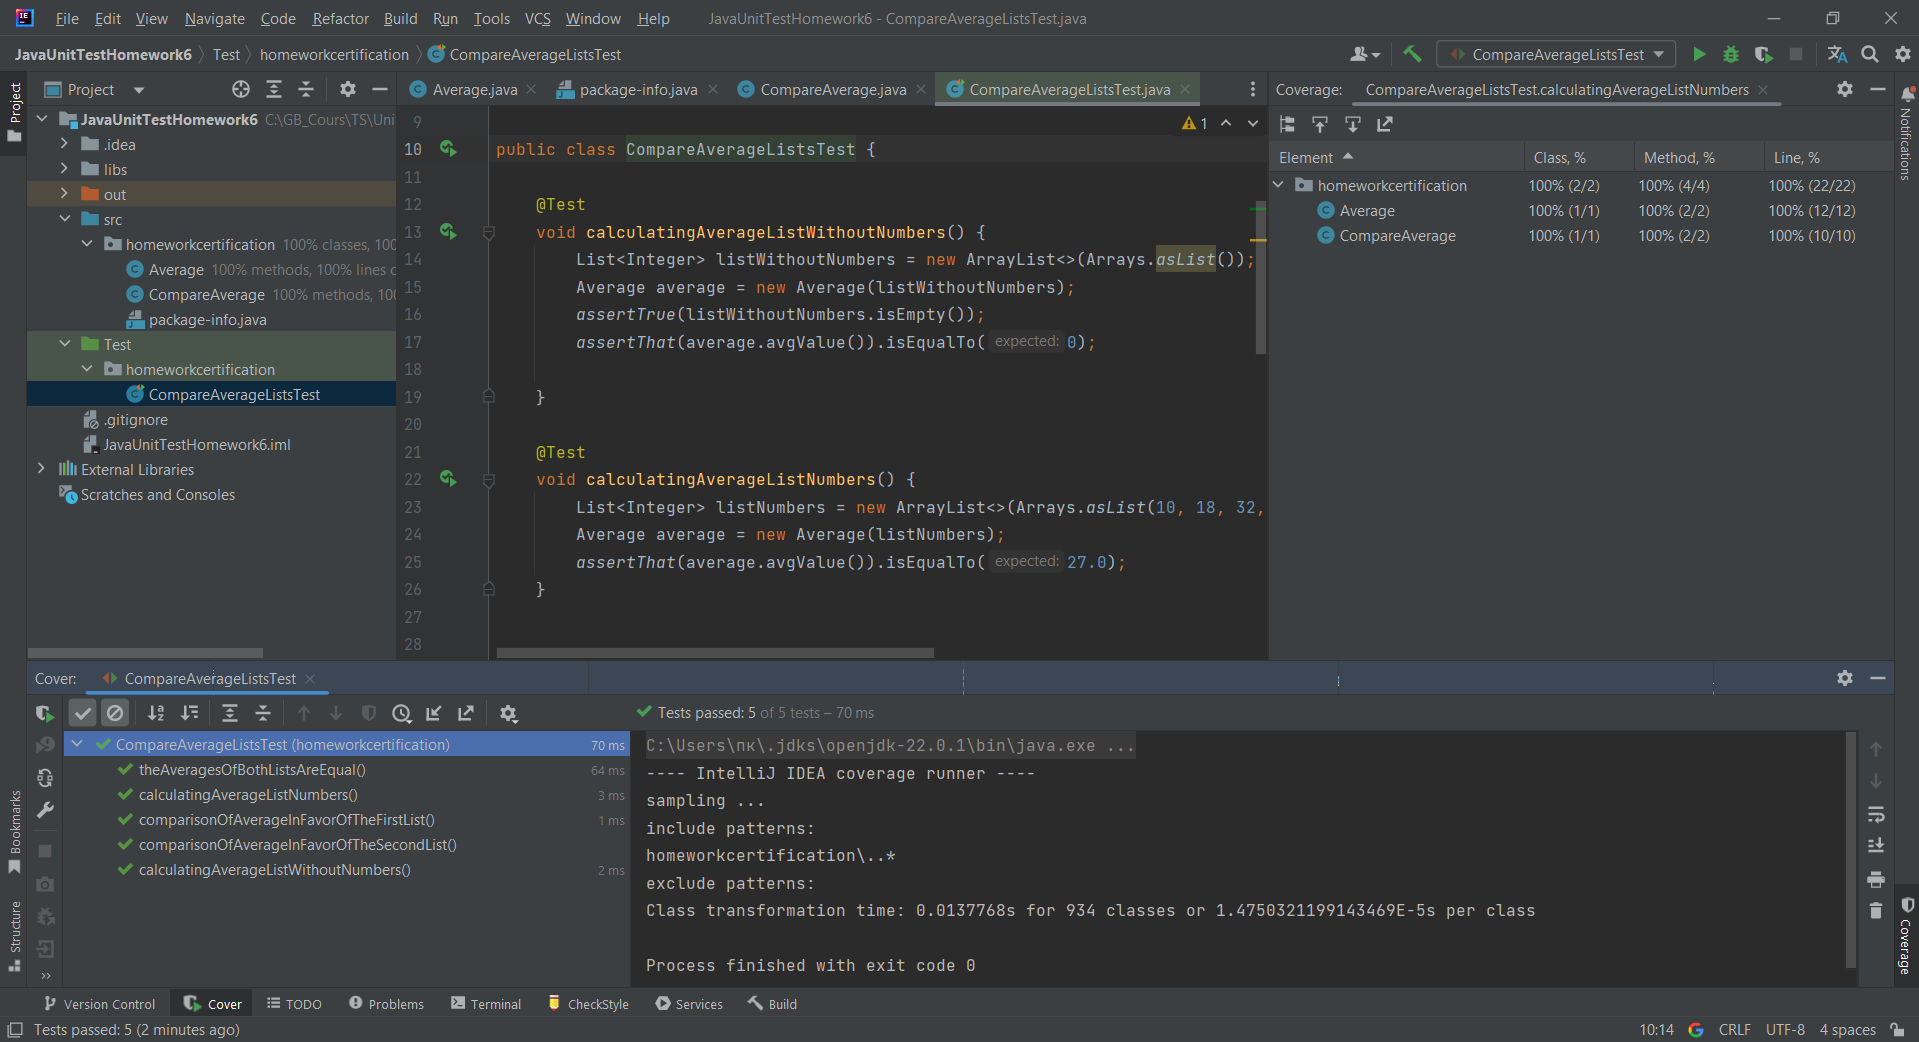
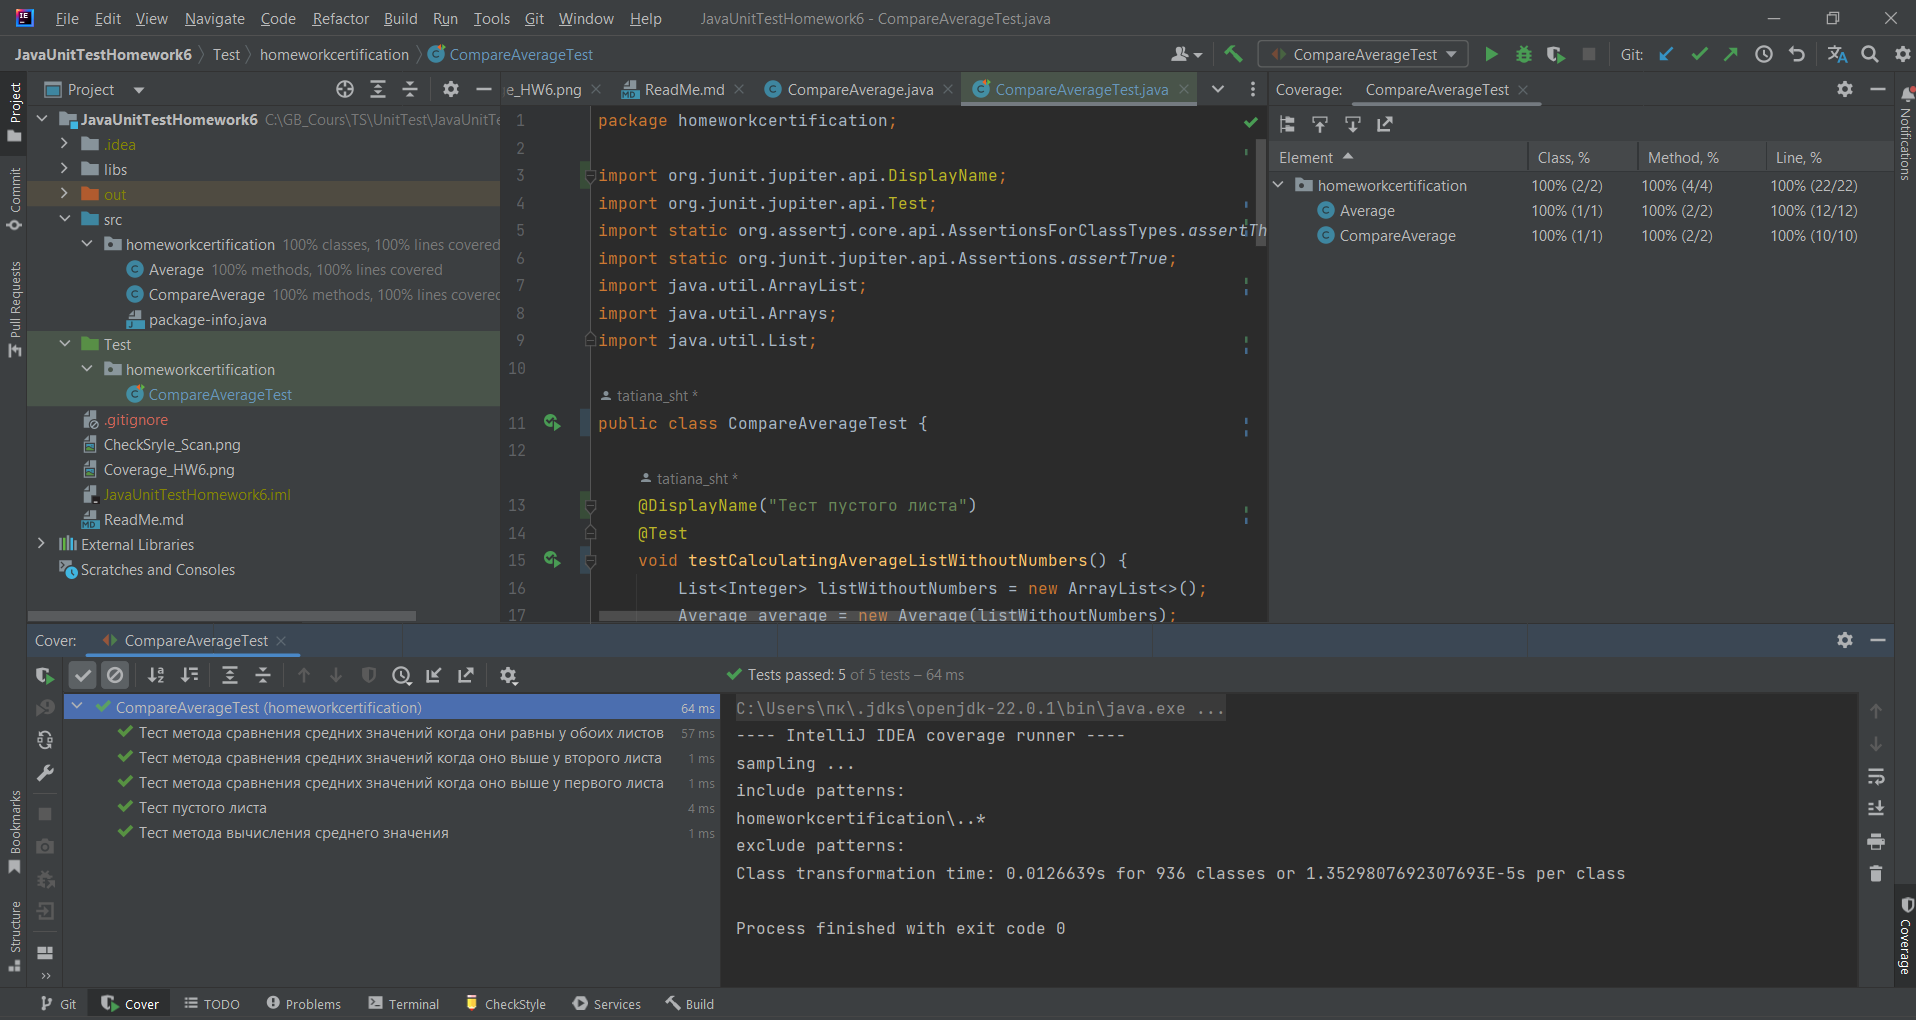
Added solution hw6

diff --git a/Test/homeworkcertification/CompareAverageTest.java b/Test/homeworkcertification/CompareAverageTest.java
@@ -1,5 +1,6 @@
 package homeworkcertification;
 
+import org.junit.jupiter.api.DisplayName;
 import org.junit.jupiter.api.Test;
 import static org.assertj.core.api.AssertionsForClassTypes.assertThat;
 import static org.junit.jupiter.api.Assertions.assertTrue;
@@ -7,26 +8,29 @@ import java.util.ArrayList;
 import java.util.Arrays;
 import java.util.List;
 
-public class CompareAverageListsTest {
+public class CompareAverageTest {
 
+    @DisplayName("Тест пустого листа")
     @Test
-    void calculatingAverageListWithoutNumbers() {
+    void testCalculatingAverageListWithoutNumbers() {
         List<Integer> listWithoutNumbers = new ArrayList<>();
         Average average = new Average(listWithoutNumbers);
         assertTrue(listWithoutNumbers.isEmpty());
         assertThat(average.avgValue()).isEqualTo(0);
     }
 
+    @DisplayName("Тест метода вычисления среднего значения")
     @Test
-    void calculatingAverageListNumbers() {
+    void testCalculatingAverageListNumbers() {
         List<Integer> listNumbers = new ArrayList<>(Arrays.asList(10, 18, 32, 25, 59, 17, 30));
         Average average = new Average(listNumbers);
         assertThat(average.avgValue()).isEqualTo(27.0);
     }
 
 
+    @DisplayName("Тест метода сравнения средних значений когда оно выше у первого листа")
     @Test
-    void comparisonOfAverageInFavorOfTheFirstList() {
+    void testComparisonOfAverageInFavorOfTheFirstList() {
         List<Integer> listOne = new ArrayList<>(Arrays.asList(10, 22, 33, 44, 55));
         List<Integer> listTwo = new ArrayList<>(Arrays.asList(10, 20, 30, 40, 50));
         Average averageOne = new Average(listOne);
@@ -37,9 +41,9 @@ public class CompareAverageListsTest {
                 .isEqualTo("Первый список имеет большее среднее значение.");
     }
 
-
+    @DisplayName("Тест метода сравнения средних значений когда оно выше у второго листа")
     @Test
-    void comparisonOfAverageInFavorOfTheSecondList() {
+    void testComparisonOfAverageInFavorOfTheSecondList() {
         List<Integer> listOne = new ArrayList<>(Arrays.asList(11, 12, 13, 14, 15));
         List<Integer> listTwo = new ArrayList<>(Arrays.asList(22, 32, 42, 52, 62));
         Average averageOne = new Average(listOne);
@@ -51,8 +55,9 @@ public class CompareAverageListsTest {
     }
 
 
+    @DisplayName("Тест метода сравнения средних значений когда они равны у обоих листов")
     @Test
-    void theAveragesOfBothListsAreEqual() {
+    void testTheAveragesOfBothListsAreEqual() {
         List<Integer> listOne = new ArrayList<>(Arrays.asList(11, 22, 33, 44, 55));
         List<Integer> listTwo = new ArrayList<>(Arrays.asList(11, 22, 33, 44, 55));
         Average averageOne = new Average(listOne);
